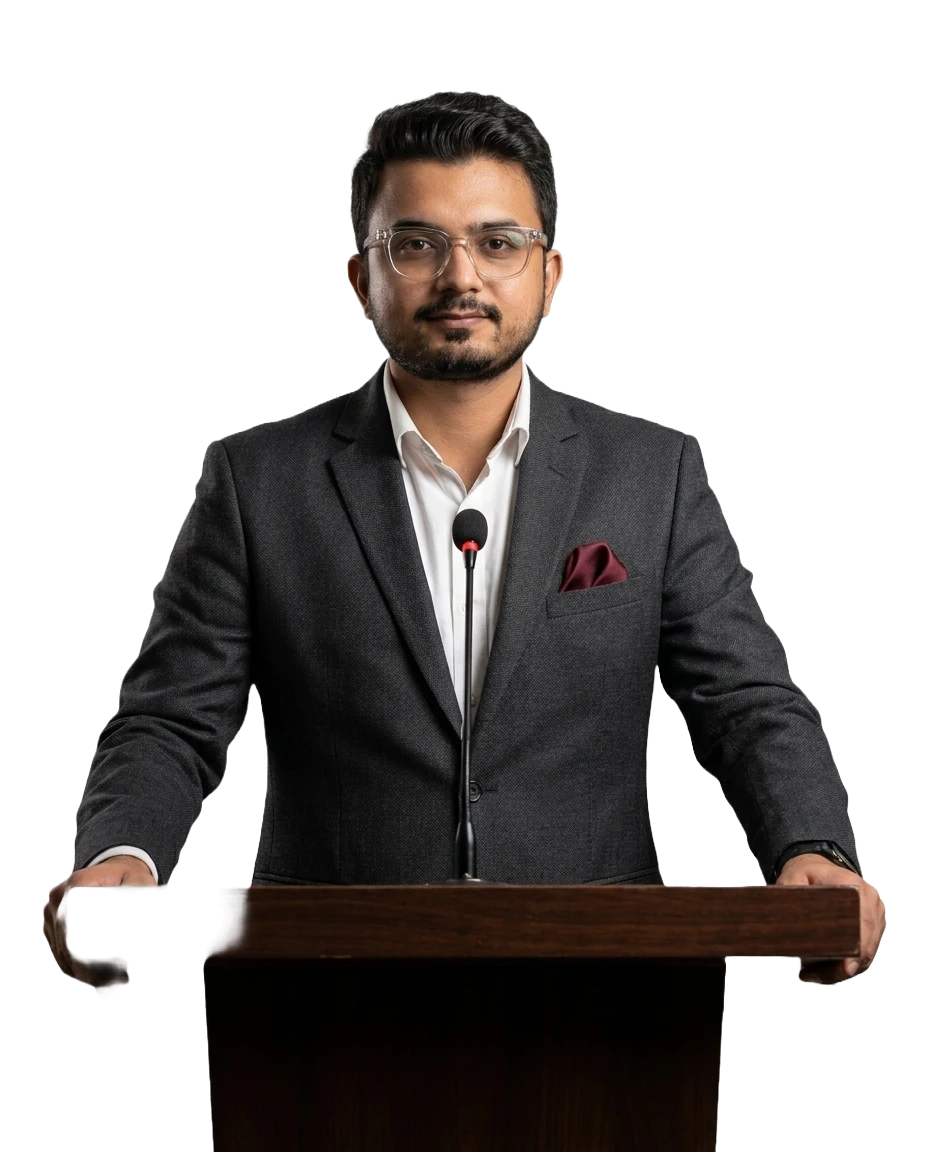
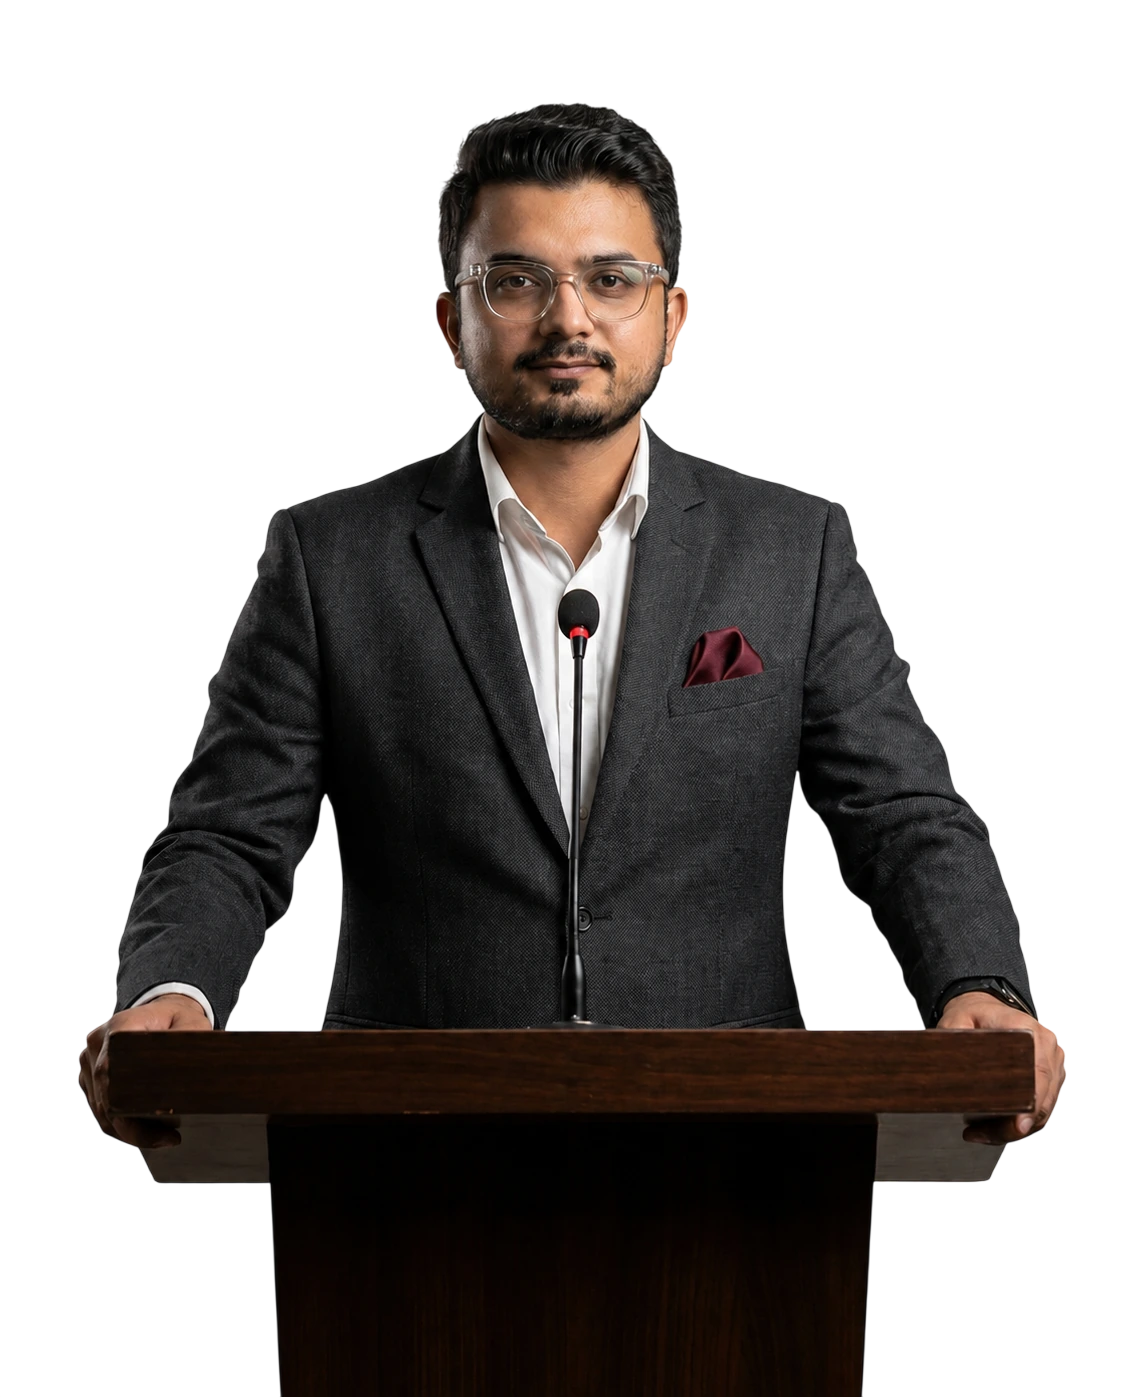
Replace founder hero portrait

Changed region(s): [[0.0312, 0.0625, 0.9688, 1.0]]

diff --git a/src/app/page.tsx b/src/app/page.tsx
@@ -62,7 +62,7 @@ export default function Home() {
       <section id="home" className="hero-section">
         <Image className="hero-bg" src={withBasePath("/images/aj-foundation/hero-background.webp")} alt="A community solidarity gathering" fill priority sizes="100vw" />
         <div className="hero-shade" />
-        <Image className="hero-candidate" src={withBasePath("/images/aj-foundation/founder.webp")} alt="AJ Foundation founder speaking at a podium" width={928} height={1152} priority />
+        <Image className="hero-candidate" src={withBasePath("/images/aj-foundation/founder.webp")} alt="AJ Foundation founder speaking at a podium" width={1126} height={1397} priority />
         <div className="site-shell hero-content">
           <Eyebrow light>People deserve a second chance.</Eyebrow>
           <h1>Building skills.<br />Restoring purpose.</h1>
